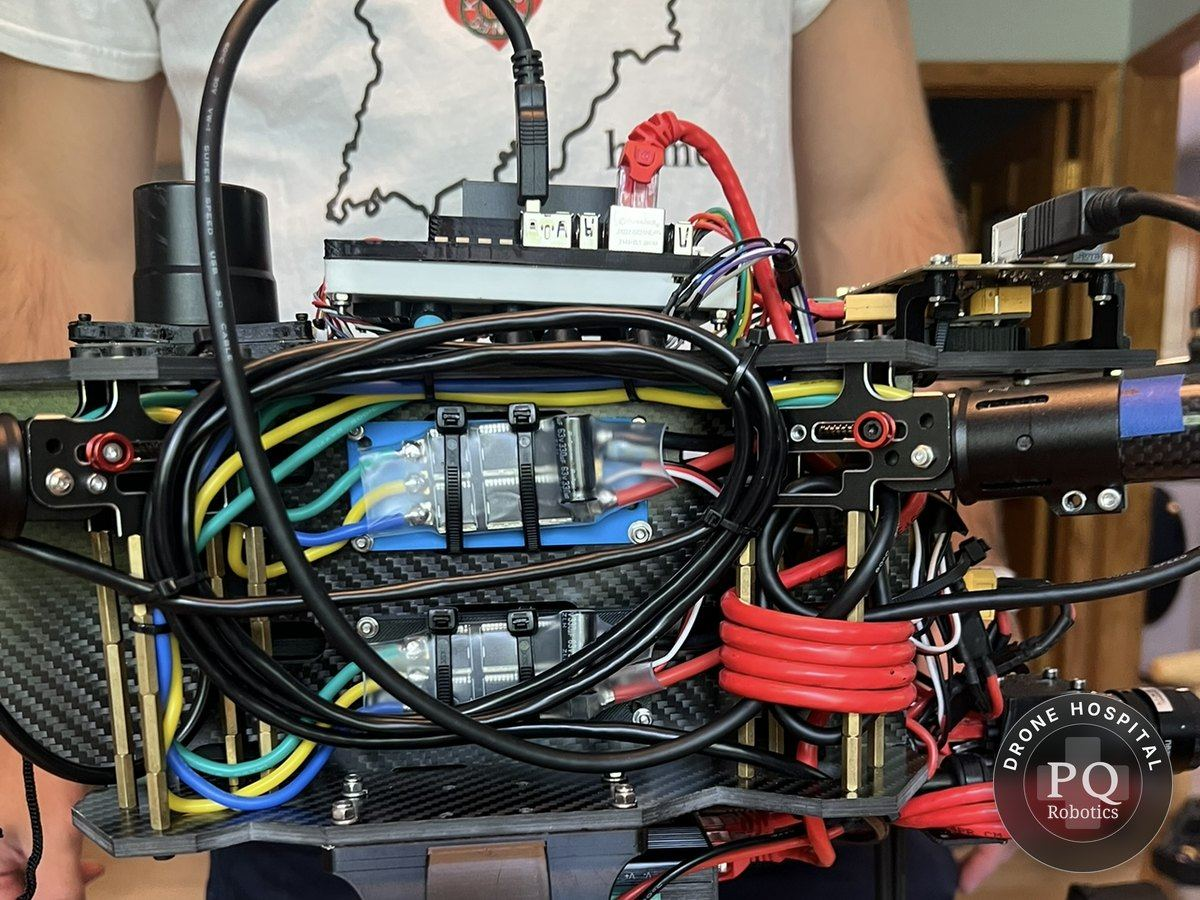
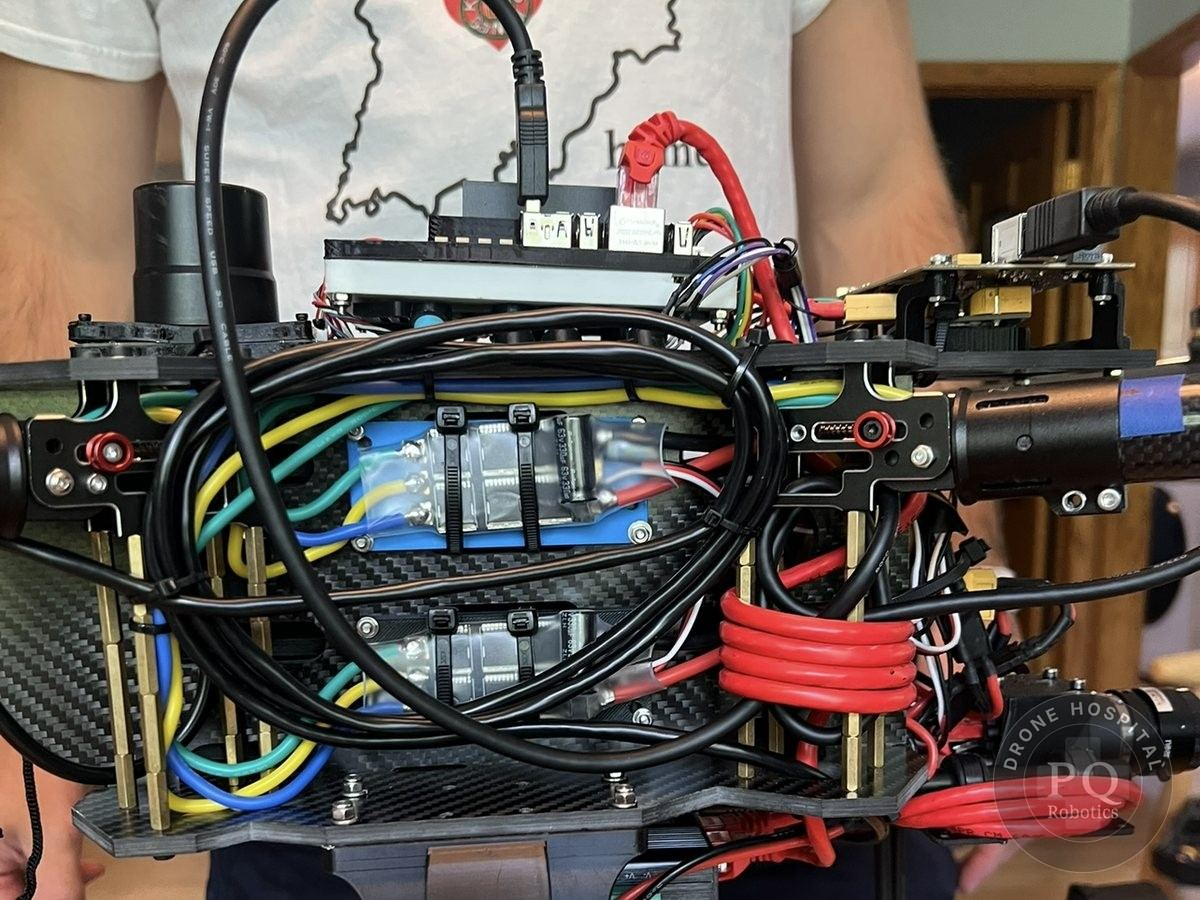
Dim the Drone Hospital watermark on home and Education page photos
Re-stamped from the clean originals at 45% badge strength, the same level as
the new Education photos. watermark.py now uses 0.45 by default (--strength 1
gives the old full badge).

Claude-Session: https://claude.ai/code/session_01VkrTbNvoBYVUbezNgwr7mv

Changed region(s): [[0.8017, 0.7778, 0.9867, 0.9956]]

diff --git a/tools/watermark.py b/tools/watermark.py
@@ -9,6 +9,7 @@ Usage:
   python3 tools/watermark.py PHOTO [PHOTO ...]          # stamps in place
   python3 tools/watermark.py --safe-16x9 PHOTO ...      # photos shown in 16:9 thumbnails
   python3 tools/watermark.py --out stamped/ PHOTO ...   # write copies instead
+  python3 tools/watermark.py --strength 1 PHOTO ...     # full-strength badge (default is the dim 0.45)
 
 Run it once per photo; it doesn't detect an existing badge.
 Needs Pillow:  pip install pillow
@@ -20,10 +21,12 @@ HERE = os.path.dirname(os.path.abspath(__file__))
 BADGE = os.path.join(HERE, "..", "assets", "images", "watermark-badge.png")
 SIZE = 0.20   # badge diameter as a share of the visible short side
 PAD = 0.03    # gap from the edges, same basis
+STRENGTH = 0.45  # how strongly the badge shows: 1 = full badge, 0.45 = the site's dim level
 
 
-def stamp(img, safe_16x9=False, size=SIZE, pad=PAD):
+def stamp(img, safe_16x9=False, size=SIZE, pad=PAD, strength=STRENGTH):
     img = ImageOps.exif_transpose(img).convert("RGBA")
+    clean = img.copy()
     W, H = img.size
     vis_h, crop_y = H, 0
     if safe_16x9 and H > W * 9 / 16:          # thumbnails crop the top and bottom of taller photos
@@ -46,7 +49,7 @@ def stamp(img, safe_16x9=False, size=SIZE, pad=PAD):
 
     # glass, ring text and logo
     img.alpha_composite(Image.open(BADGE).convert("RGBA").resize((d, d), Image.LANCZOS), (x, y))
-    return img
+    return Image.blend(clean, img, strength) if strength < 1 else img
 
 
 def save(img, path, like):
@@ -64,10 +67,11 @@ if __name__ == "__main__":
     ap.add_argument("photos", nargs="+")
     ap.add_argument("--safe-16x9", action="store_true", help="keep the badge inside a centered 16:9 crop")
     ap.add_argument("--out", help="folder for stamped copies (default: overwrite)")
+    ap.add_argument("--strength", type=float, default=STRENGTH, help="badge strength, 0 to 1 (default %(default)s)")
     a = ap.parse_args()
     for src in a.photos:
         im = Image.open(src)
         dst = os.path.join(a.out, os.path.basename(src)) if a.out else src
         if a.out: os.makedirs(a.out, exist_ok=True)
-        save(stamp(im, a.safe_16x9), dst, im)
+        save(stamp(im, a.safe_16x9, strength=a.strength), dst, im)
         print("stamped", dst)
